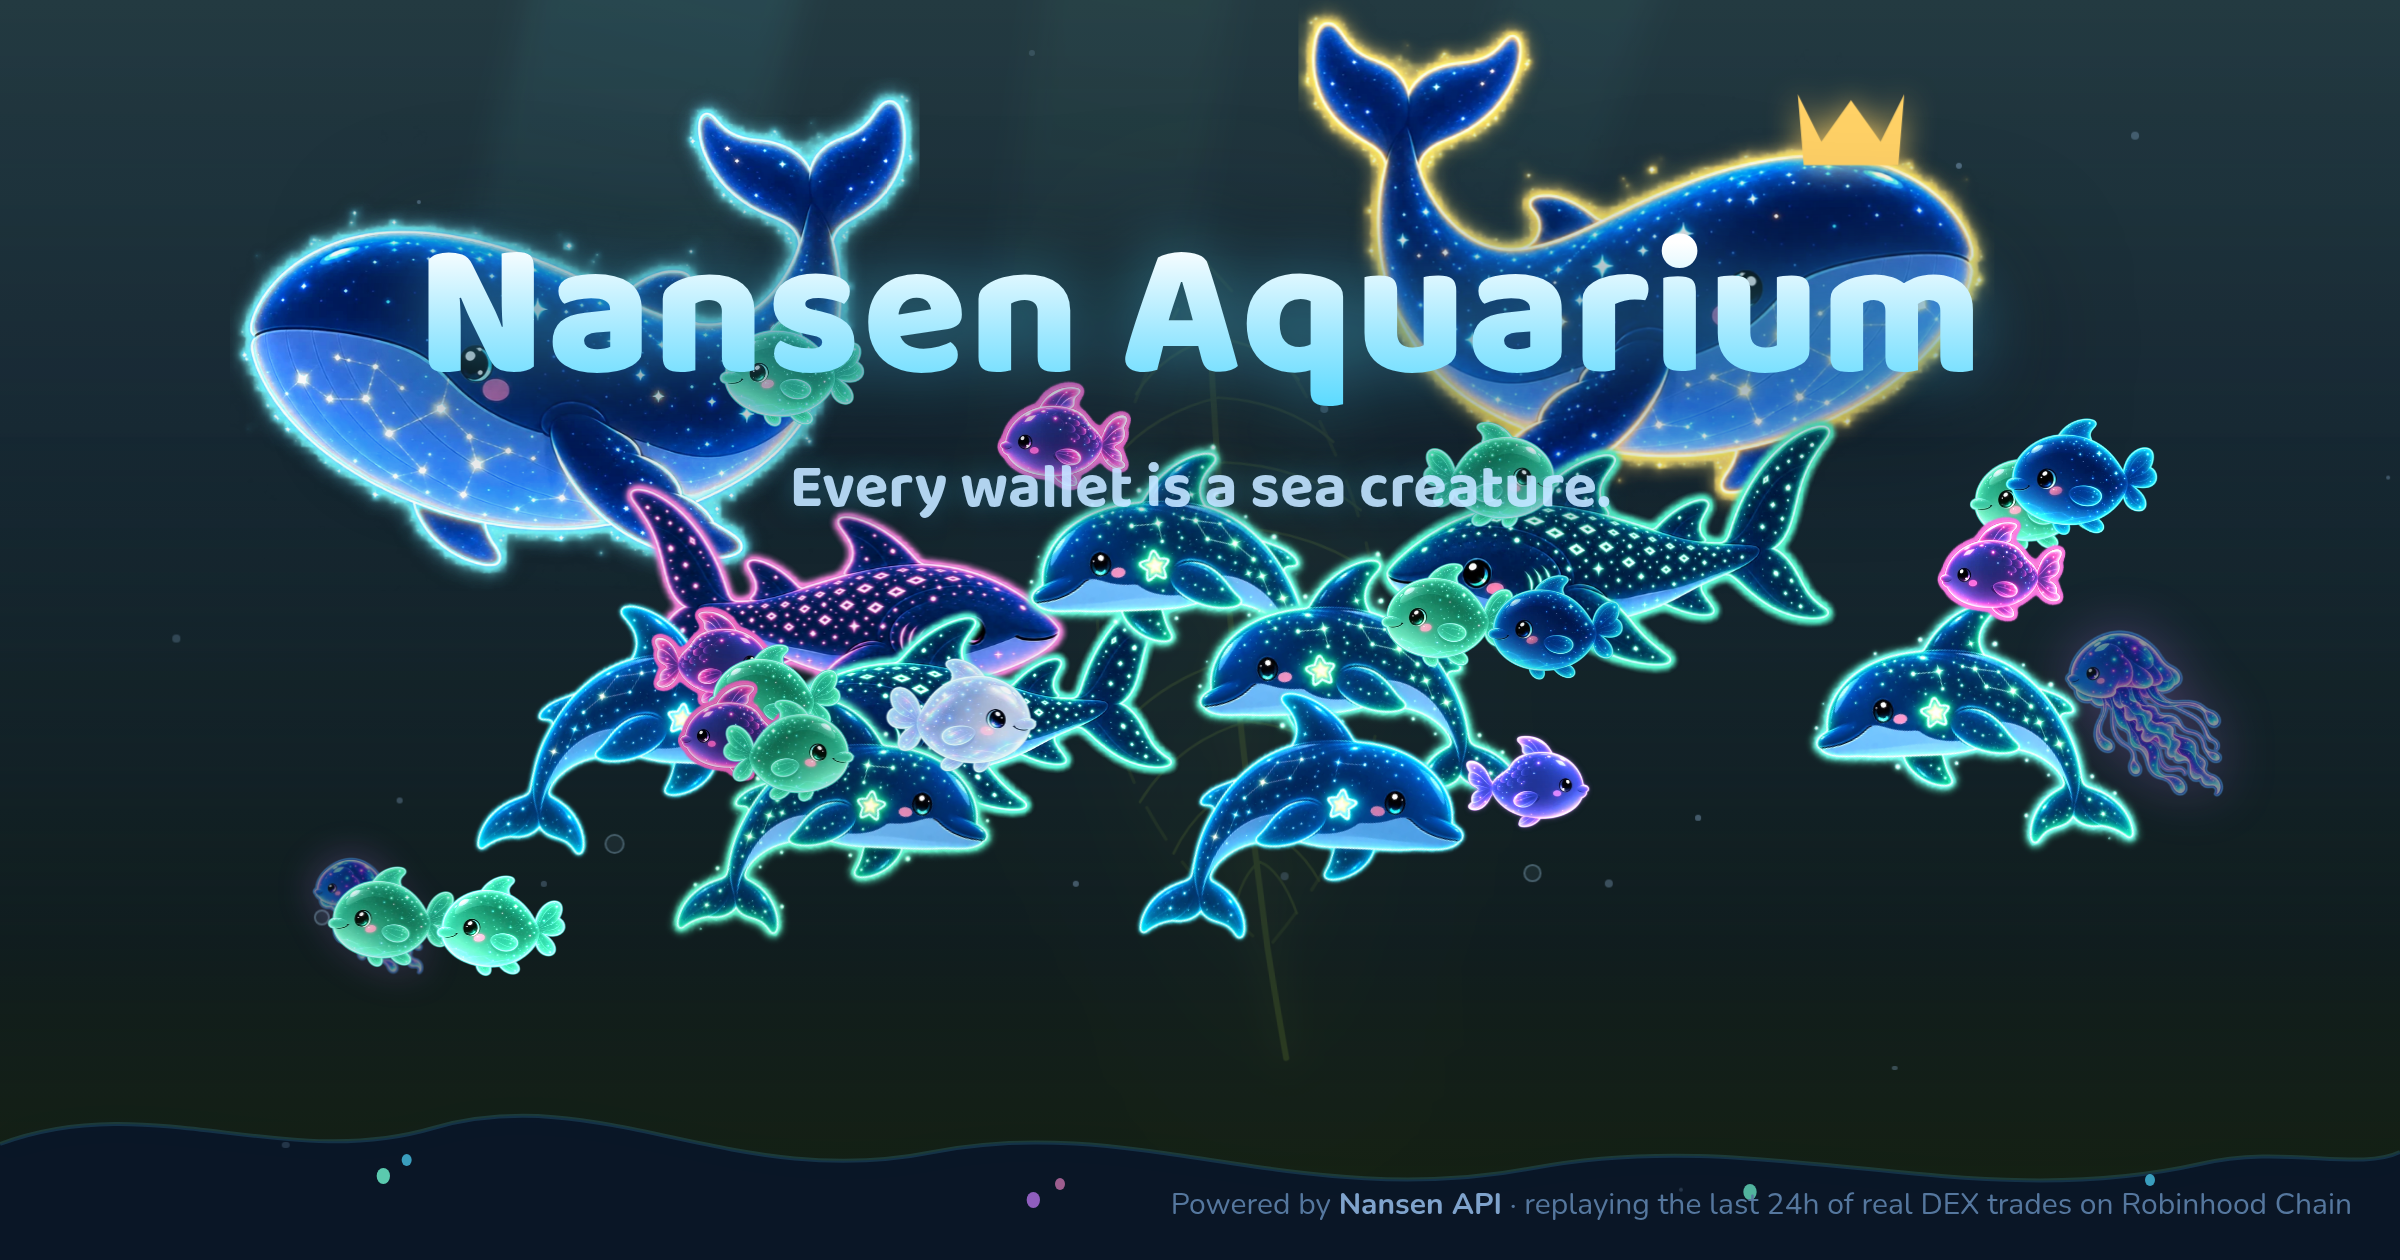
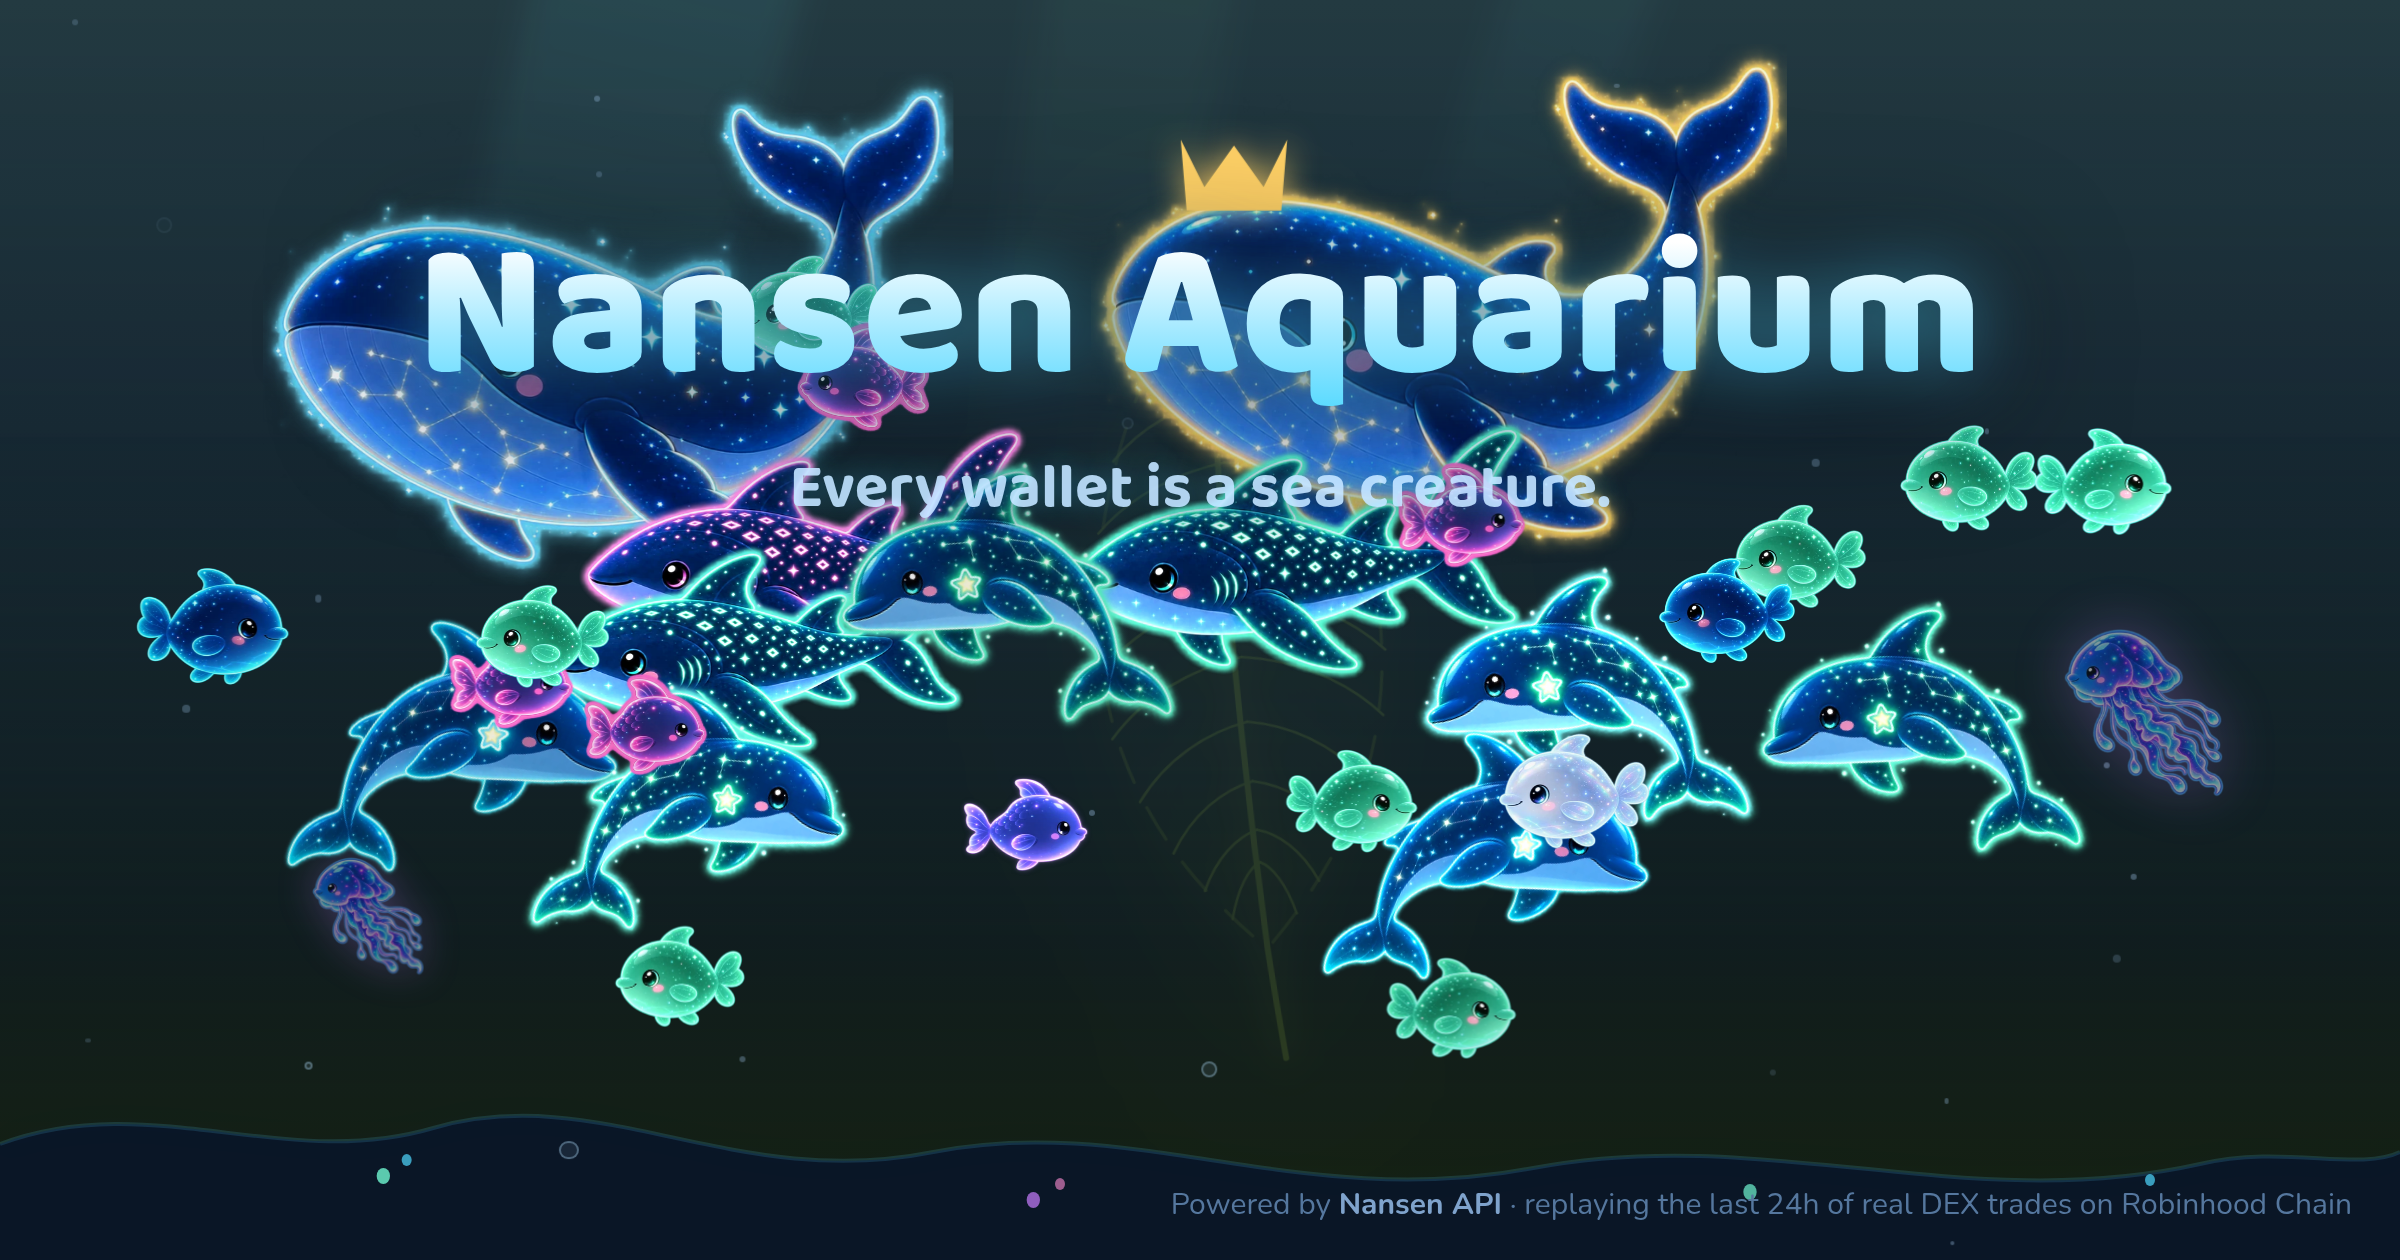
Retake the link card
A luckier cast of the shoal: the whales flank the wordmark
symmetrically, the crown rides just above the title, and the tagline
sits clear of every fin.

diff --git a/index.html b/index.html
@@ -14,7 +14,7 @@
   <meta property="og:title" content="Nansen Aquarium">
   <meta property="og:description" content="Every wallet is a sea creature. The day's top traders swim as bioluminescent deep-sea life — and you can hatch your own fish from a wallet address. Powered by Nansen API.">
   <meta property="og:url" content="https://saxophonetrom.github.io/nansen-aquarium/">
-  <meta property="og:image" content="https://saxophonetrom.github.io/nansen-aquarium/public/og/card.png?v=2">
+  <meta property="og:image" content="https://saxophonetrom.github.io/nansen-aquarium/public/og/card.png?v=3">
   <meta property="og:image:width" content="2400">
   <meta property="og:image:height" content="1260">
   <meta property="og:image:alt" content="A deep-sea aquarium of glowing whales, sharks, dolphins and fish, each one a real trading wallet.">
